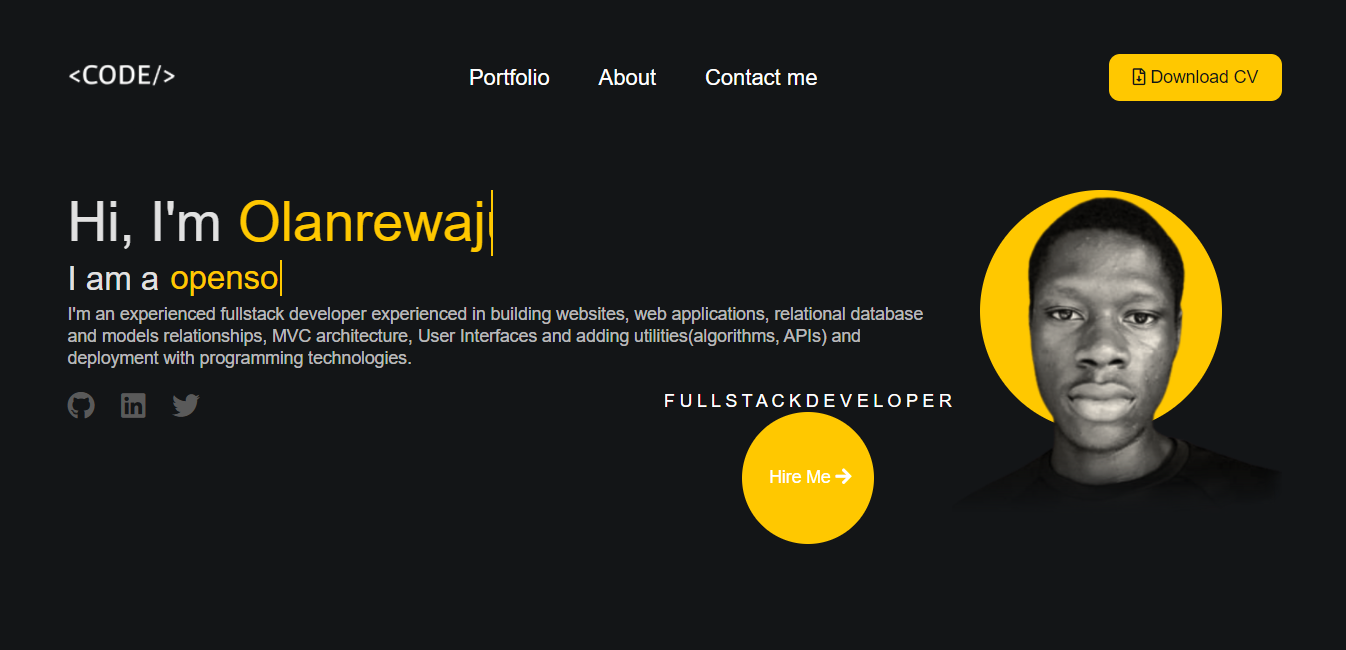
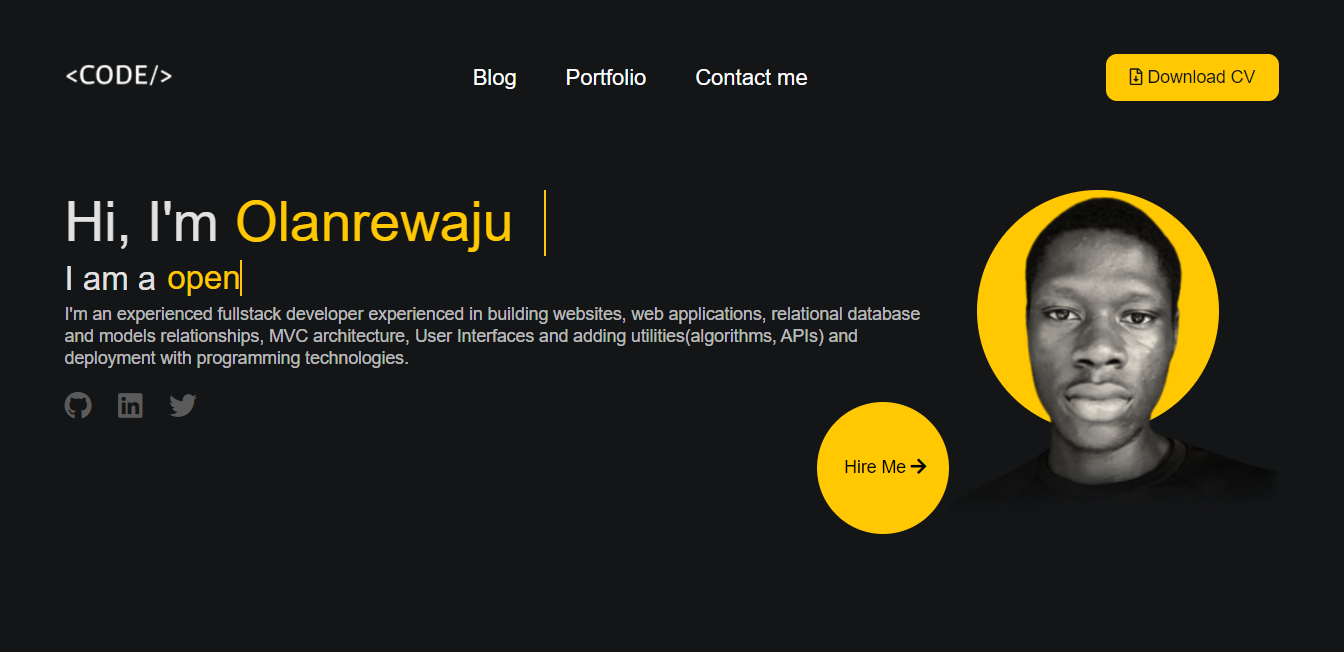
commit

diff --git a/index.html b/index.html
@@ -21,7 +21,7 @@
   </head>
   <body>
     <nav data-aos="fade-down" data-aos-duration="1500">
-      <span>
+      <span >
         <a href="/"><img src="./images/apple-touch-icon.png" alt="" class="main-logo" /></a>
       </span>
 
@@ -32,13 +32,15 @@
       </label>
 
       <span class="nav-links">
-        <a href="https://chryzcodez.hashnode.dev/" target="_blank">Blogs</a>
-        <a href="">Portfolio</a>
-        <a href="">Contact me</a>
+        <a href="https://chryzcodez.hashnode.dev/" target="_blank">Blog</a>
+        <a href="#projects-section">Portfolio</a>
+        <a href="#contact-me">Contact me</a>
       </span>
 
       <span class="download-cv-btn">
-        <a href="./docs/resume.pdf" target="_blank" class="download-cv"><i class="fas fa-file-download"></i>Download CV</a>
+        <a href="./docs/resume.pdf" target="_blank" class="download-cv"
+          ><i class="fas fa-file-download"></i>Download CV</a
+        >
       </span>
     </nav>
     <div class="about-me">
@@ -78,9 +80,15 @@
         </p>
         <div data-aos="fade-up" data-aos-duration="2000" class="socials-logo">
           <span>
-            <a href="http://" target="_blank" rel="noopener noreferrer"><i class="fab fa-github"></i></a>
-            <a href="http://" target="_blank" rel="noopener noreferrer"><i class="fab fa-linkedin"></i></a>
-            <a href="http://" target="_blank" rel="noopener noreferrer"><i class="fab fa-twitter"></i></a>
+            <a href="https://github.com/chryz-code" target="_blank" rel="noopener noreferrer"
+              ><i class="fab fa-github"></i
+            ></a>
+            <a href="https://www.linkedin.com/in/olanrewaju-alaba/" target="_blank" rel="noopener noreferrer"
+              ><i class="fab fa-linkedin"></i
+            ></a>
+            <a href="https://twitter.com/chryz_code" target="_blank" rel="noopener noreferrer"
+              ><i class="fab fa-twitter"></i
+            ></a>
           </span>
 
           <div class="rolling-words-container">
@@ -126,7 +134,7 @@
       </div>
     </div>
 
-    <div class="projects-section">
+    <div id="projects-section" class="projects-section">
       <p data-aos="flip-up" data-aos-duration="500">Some of my works</p>
       <div class="project-grid">
         <div data-aos="fade-right" data-aos-duration="1000">
@@ -358,13 +366,19 @@
       </div>
     </div>
 
-    <div data-aos="zoom-in" data-aos-duration="1000" class="last-section">
+    <div data-aos="zoom-in" data-aos-duration="1000" id="contact-me" class="contact-me">
       <div>Get in touch</div>
       <a href="mailto:alabaolanrewaju13@gmail.com" target="_blank">Email me <i class="fas fa-arrow-right"></i></a>
       <span>
-        <a href="http://" target="_blank" rel="noopener noreferrer"><i class="fab fa-github"></i></a>
-        <a href="http://" target="_blank" rel="noopener noreferrer"><i class="fab fa-linkedin"></i></a>
-        <a href="http://" target="_blank" rel="noopener noreferrer"><i class="fab fa-twitter"></i></a>
+        <a href="https://github.com/chryz-code" target="_blank" rel="noopener noreferrer"
+          ><i class="fab fa-github"></i
+        ></a>
+        <a href="https://www.linkedin.com/in/olanrewaju-alaba/" target="_blank" rel="noopener noreferrer"
+          ><i class="fab fa-linkedin"></i
+        ></a>
+        <a href="https://twitter.com/chryz_code" target="_blank" rel="noopener noreferrer"
+          ><i class="fab fa-twitter"></i
+        ></a>
       </span>
     </div>
 

diff --git a/css/main.css b/css/main.css
@@ -24,6 +24,7 @@ body {
   color: #ffffff;
   display: flex;
   justify-content: space-between;
+  margin-top: 110px;
 }
 
 .my-image-background {
@@ -179,47 +180,47 @@ body {
   color: #ffc800;
 }
 
-.last-section {
+.contact-me {
   text-align: center;
   margin-top: 70px;
 }
 
-.last-section > * {
+.contact-me > * {
   margin: 30px 0;
 }
 
-.last-section > div {
+.contact-me > div {
   font-weight: 600;
   font-size: 40px;
   line-height: 60px;
   color: #e1e1e1;
 }
 
-.last-section > a {
+.contact-me > a {
   font-size: 19px;
   line-height: 37px;
   color: #ffffff;
   text-decoration: none;
 }
 
-.last-section > a:hover {
+.contact-me > a:hover {
   color: #ffc800;
   transition: all 0.2s ease-in-out;
 }
 
-.last-section > span {
+.contact-me > span {
   display: flex;
   justify-content: center;
   align-items: center;
 }
 
-.last-section > span > a {
+.contact-me > span > a {
   color: #5a5a5a;
   margin: 0 15px;
   font-size: 20px;
 }
 
-.last-section > span > a:hover {
+.contact-me > span > a:hover {
   color: #ffc800;
   transition: all 0.2s ease-in-out;
 }

diff --git a/css/mobile-view.css b/css/mobile-view.css
@@ -1,6 +1,5 @@
 @media all and (max-width: 700px) {
   nav {
-    position: static;
     background-color: #131517;
     padding: 0px 10px 15px 10px;
   }
@@ -143,7 +142,7 @@
   }
 
   .about-me {
-    margin-top: 30px;
+    margin-top: 30px !important;
   }
 
   .about-me-content > p {
@@ -206,7 +205,7 @@
     font-weight: 500;
   }
 
-  .last-section > div {
+  .contact-me > div {
     font-size: 30px !important;
   }
 

diff --git a/css/desktop-view.css b/css/desktop-view.css
@@ -1,11 +1,16 @@
 @media all and (min-width: 700px) {
   nav {
-    position: static;
-    background-color: #131517;
-    padding: 20px 5% 20px 5%;
+    position: fixed;
+    top: 0;
+    right: 0;
+    left: 0;
+    background: #131517;
+    padding: 0px 5% 0px 5%;
     display: flex;
     align-items: center;
     justify-content: space-between;
+    overflow: hidden;
+    z-index: 10;
   }
 
   .main-logo {
